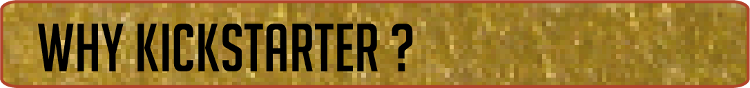
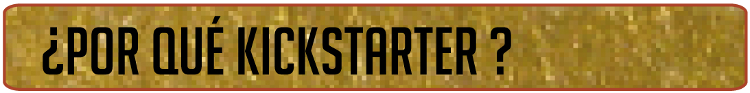
Added spanish images & italian quotes

diff --git a/kickstarter/es.md b/kickstarter/es.md
@@ -3,7 +3,7 @@ layout: kickstarter
 permalink: /kickstarter/es/
 ---
 
-<!-- video de presentación -->
+{% include youtube.html video='R3i4dyt_mco' %}
 
 <p class="ks-intro-question">
 ¿Alguna vez te has preguntado cómo sería convertirte en un pez gordo de la economía?
@@ -17,7 +17,7 @@ permalink: /kickstarter/es/
 ¡Si has respondido que sí a alguna de las anteriores, estás en el lugar adecuado!
 </p>
 
-<!-- video jordi&alvaro -->
+{% include youtube.html video='kZ8wRiqo9pE' %}
 
 The Lord of the P.I.G.S. es un dinámico juego sobre la política y economía de la ficticia República
 de Meridia, un país que recoge las características de los países del sur de Europa.  Tú y tus
@@ -57,7 +57,7 @@ gente"...
   ¡Pon tu cara cogiendo el nivel de aporte <em>Cabecilla</em>!
 </p>
 
-<!-- video reglas -->
+{% include youtube.html video='???????????' %}
 
 Los intereses de cada jugador son de naturaleza diferente (al Presidente, por ejemplo, le interesa
 la Opinión Pública), y cada uno se representa con una puntuación que va de 0 a 10.  El objetivo del
